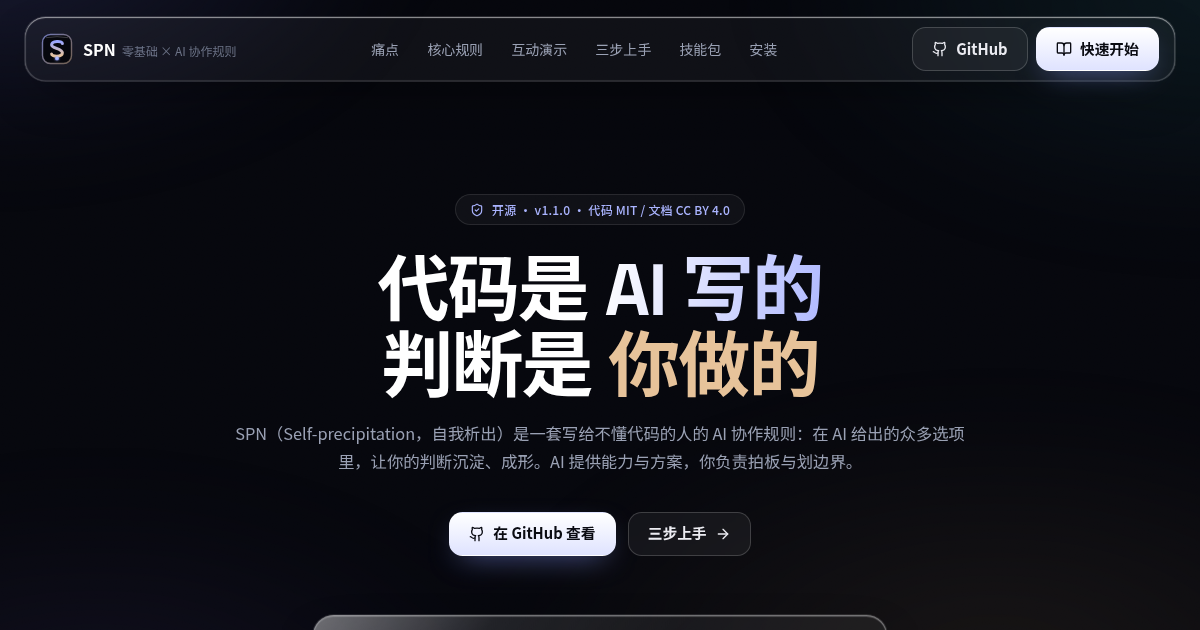
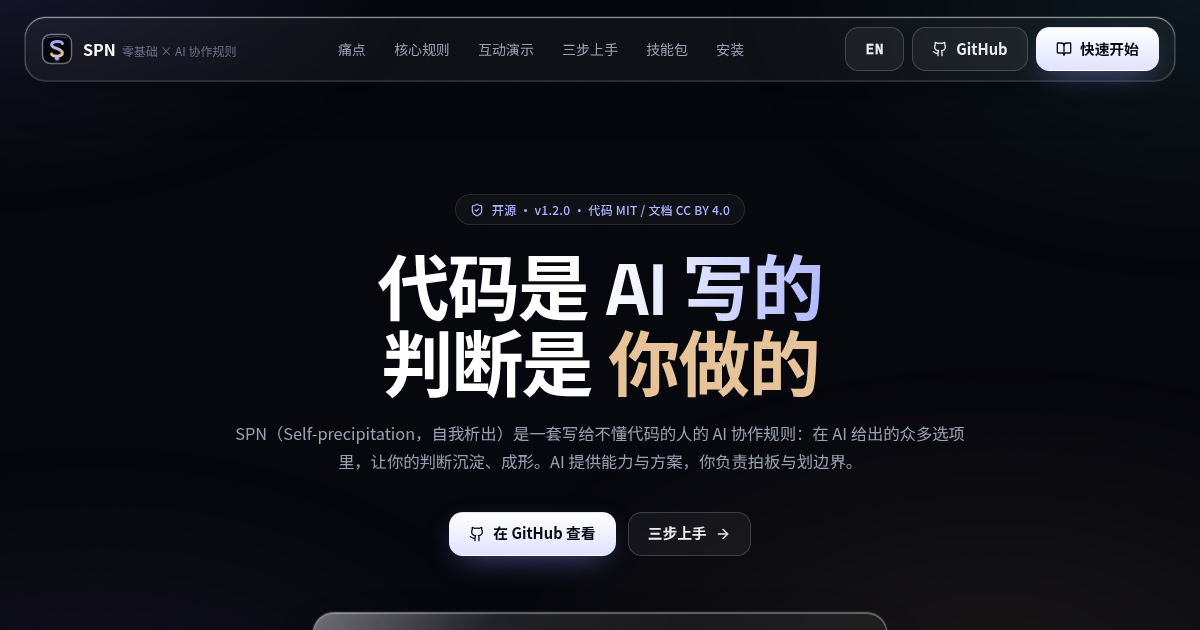
website: bump version badge to v1.2.0 (hero/footer) and regenerate og.png

Changed region(s): [[0.2467, 0.9651, 0.74, 0.9952], [0.2775, 0.0603, 0.6475, 0.0905], [0.7092, 0.0603, 0.74, 0.0905]]

diff --git a/website/src/content.ts b/website/src/content.ts
@@ -18,7 +18,7 @@ export const zh = {
     intro:
       "SPN（Self-precipitation，自我析出）是一套写给不懂代码的人的 AI 协作规则：在 AI 给出的众多选项里，让你的判断沉淀、成形。AI 提供能力与方案，你负责拍板与划边界。",
     github: "https://github.com/xiaoyu-hue/SPN",
-    version: "v1.1.0",
+    version: "v1.2.0",
     licenseSlash: "代码 MIT / 文档 CC BY 4.0",
     licenseDot: "代码 MIT · 文档 CC BY 4.0",
   },
@@ -312,7 +312,7 @@ export const en: Content = {
     intro:
       "SPN (Self-precipitation) is a set of AI collaboration rules written for people who don't code: among the many options an AI offers, your judgment settles and takes shape. The AI provides capability and solutions; you make the call and set the boundaries.",
     github: "https://github.com/xiaoyu-hue/SPN",
-    version: "v1.1.0",
+    version: "v1.2.0",
     licenseSlash: "Code MIT / Docs CC BY 4.0",
     licenseDot: "Code MIT · Docs CC BY 4.0",
   },
